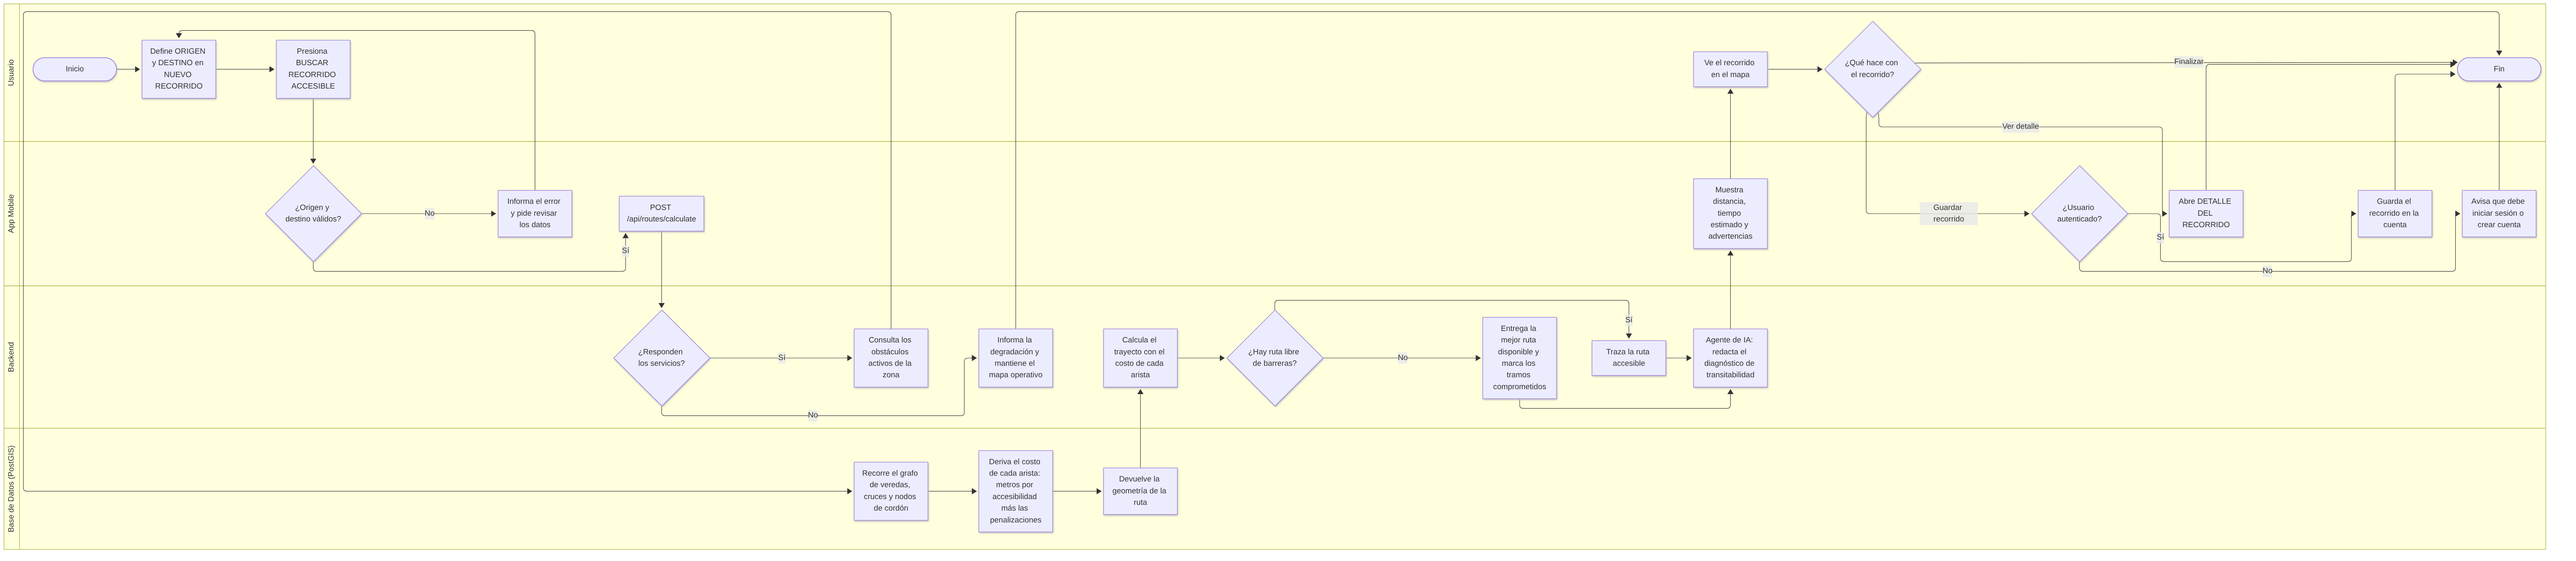
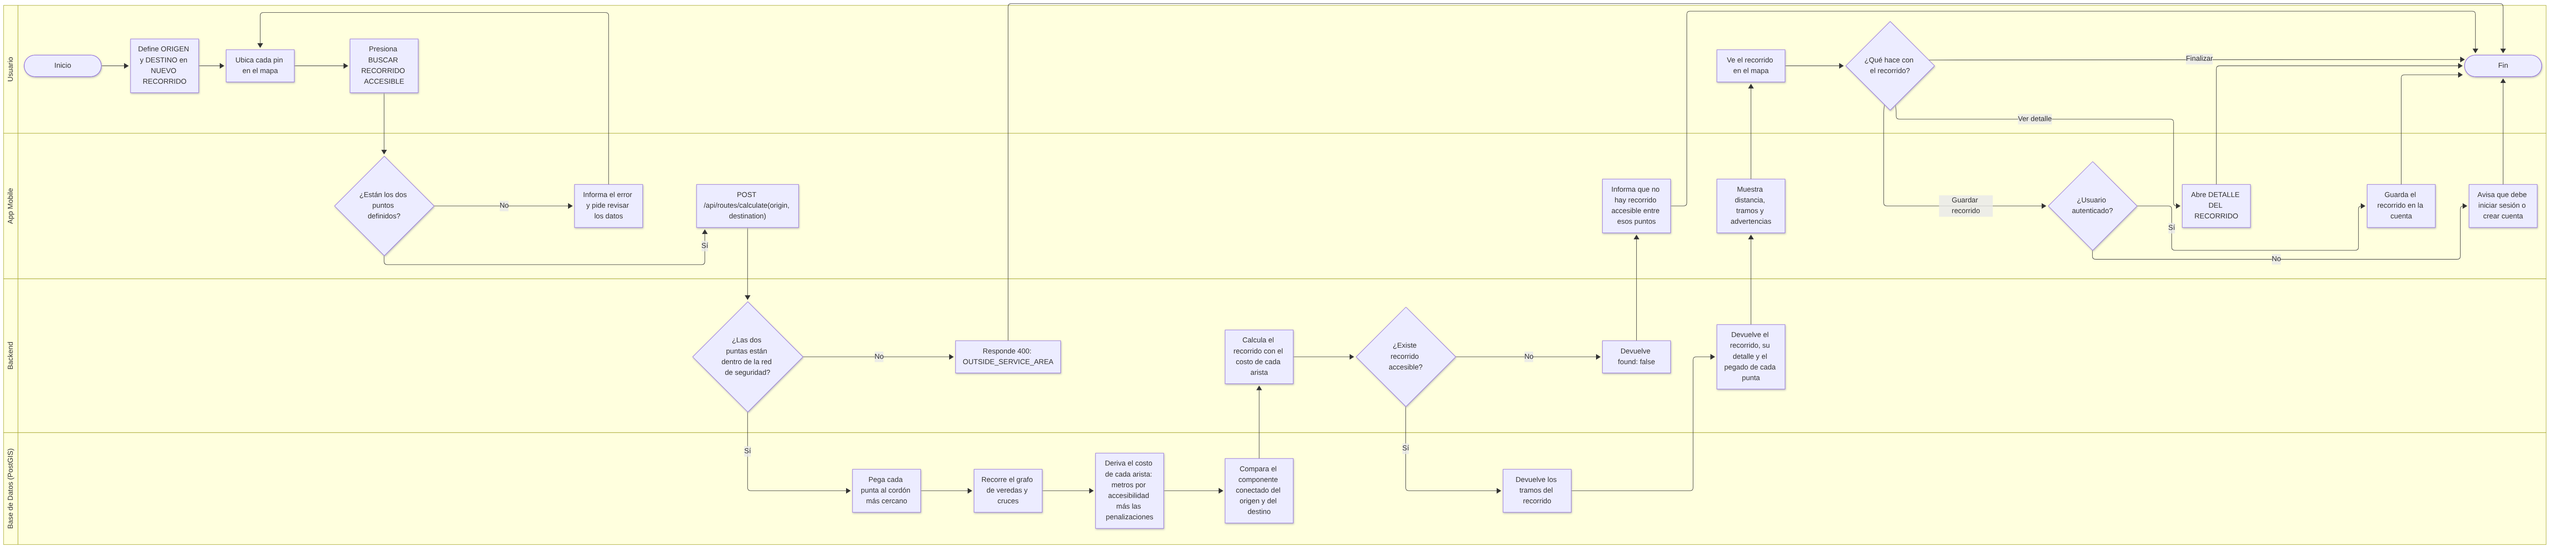
docs(ruteo): definir el contrato de C003 y C004
La API de ruteo no tenía contrato, y el diagrama de actividades todavía
prometía un agente de IA, una "mejor ruta disponible" que desvía por un
paso infranqueable y un tiempo estimado que ningún documento define.

- 13: entrada por coordenadas —no hay geocoder—, validación de las
  puntas contra service_areas, pegado sin extender la geometría,
  found: false cuando no hay camino y el detalle en la misma respuesta.
- 04: OUTSIDE_SERVICE_AREA es un motivo de VALIDATION_ERROR, definido
  por la funcionalidad que lo produce.
- 09 y 11: corregidos donde decían lo contrario y enlazados al 13.

diff --git a/docs/13-api-de-ruteo.md b/docs/13-api-de-ruteo.md
@@ -1,0 +1,268 @@
+# La API de ruteo
+
+> Documento temático. Define el contrato de C003 —planificar un recorrido accesible—
+> y de C004 —ver su detalle—: qué recibe, qué valida, qué devuelve y qué no hace. Es
+> el estado vivo de esas decisiones: se edita en su lugar cuando cambian. Se
+> complementa con [09-modelo-de-datos.md](09-modelo-de-datos.md), que define el costo
+> de las aristas, con [11-grafo-peatonal.md](11-grafo-peatonal.md), que define la
+> vista `walkable_edges` y las consultas de ruteo, y con
+> [10-datos-y-zona-piloto.md](10-datos-y-zona-piloto.md), que define el perímetro de
+> búsqueda.
+
+## 1. Alcance
+
+Este documento responde:
+
+- **Con qué entrada** se pide un recorrido, y por qué son coordenadas (§3).
+- **Cómo se validan y a qué se pegan** las dos puntas (§4).
+- **Cómo se calcula** el recorrido (§5).
+- **Qué pasa cuando no hay** recorrido accesible (§6).
+- **Qué devuelve**, campo por campo (§7).
+- **Cómo se rechaza** un pedido (§8).
+- **Por qué el detalle es la misma respuesta** y no un recurso (§9).
+
+No decide el costo de las aristas —vive en [09 §4.7](09-modelo-de-datos.md), y acá sólo
+se consume—, ni cómo se deriva el grafo ([11](11-grafo-peatonal.md)), ni el catálogo de
+errores, que es de [04](04-errores-y-mensajes.md).
+
+**El endpoint no escribe nada.** Ni una fila, ni un contador, ni un caché: es una
+consulta. Todo su estado es el grafo y los obstáculos del momento ([09 §4.7](09-modelo-de-datos.md)),
+y por eso dos pedidos iguales devuelven lo mismo mientras el dato no cambie.
+
+## 2. Los tres límites que ordenan el diseño
+
+Antes del contrato, tres límites que explican casi todas las decisiones de abajo:
+
+1. **La accesibilidad es binaria donde importa.** Un elemento relevado como `NONE` es
+   intransitable y el recorrido **no pasa por ahí**, punto. No se encarece, no se
+   penaliza, no se ofrece como alternativa: `walkable_edges` la cobra `-1` y pgRouting
+   la saca del grafo ([09 §4.7](09-modelo-de-datos.md)). Una ruta que atraviesa un paso
+   infranqueable es peor que la ausencia de ruta, porque manda a la persona hasta el
+   obstáculo.
+2. **No hay geocoder.** Nadie traduce "Necochea 120" a una coordenada: no hay servicio
+   de direcciones y Google está descartado por licencia ([12 §7](12-relevamiento-de-accesibilidad.md)).
+   Los puntos los produce el cliente con un pin sobre el mapa o con el GPS, y la API
+   recibe coordenadas.
+3. **El recorrido empieza y termina en un cordón.** La geometría que se devuelve es la
+   de las aristas, no una prolongación hasta el punto pedido: extenderla afirmaría que
+   ese tramo inventado también es accesible, y nadie lo relevó (§4.2).
+
+## 3. El pedido
+
+`POST /api/routes/calculate`
+
+```json
+{
+  "origin": { "lat": -32.889727, "lon": -68.844499 },
+  "destination": { "lat": -32.892960, "lon": -68.842028 }
+}
+```
+
+- **Coordenadas sueltas, en WGS 84 (SRID 4326), `lat` y `lon` por nombre.** El orden se
+  nombra justamente porque el par anónimo se confunde: en la geometría GeoJSON de la
+  respuesta el orden es el inverso —`[lon, lat]`—, y la asimetría se documenta en los dos
+  lados.
+- **Sin texto, sin ids de nodo, sin "mi ubicación".** Buscar por nombre de calle es otra
+  funcionalidad, no está en ninguna fase y no la necesita C003 (§10). Y aceptar el `id` de
+  un cordón ataría al cliente a la numeración interna, que es un artefacto del import
+  ([11 §4](11-grafo-peatonal.md)): el `id` se devuelve como referencia, no se pide.
+- **`POST` y no `GET`** porque el pedido lleva dos puntos en el cuerpo; el endpoint no
+  escribe nada igual (§1).
+- **Se validan las dos presencias y los rangos** (`lat` en −90…90, `lon` en −180…180) con
+  un esquema Zod, que es también la fuente del OpenAPI ([02 §6](02-stack-y-estructura.md)).
+  Lo que no cumple eso es `VALIDATION_ERROR` con el `field` que falló.
+
+## 4. Las puntas
+
+### 4.1 La red de seguridad
+
+Cada punta se valida **tal como se pidió**, no el nodo al que después se pega, contra el
+perímetro activo de `service_areas` ([09 §4.8](09-modelo-de-datos.md),
+[10 §2.1](10-datos-y-zona-piloto.md)). Es lo que evita el peor defecto de un ruteo: que
+una coordenada de otra provincia se pegue al borde del grafo y devuelva un camino con
+toda la apariencia de ser válido.
+
+Un punto afuera se rechaza con `VALIDATION_ERROR` y el detalle
+`{ "field": "origin", "code": "OUTSIDE_SERVICE_AREA" }` —o `destination`—: es un
+problema de la entrada, no un recurso que no existe, y el catálogo de
+[04 §4](04-errores-y-mensajes.md) no necesita un código nuevo para eso. Los `details`
+no traen la distancia al perímetro: el dato útil para el cliente es que la punta está
+fuera, y el texto que explica qué hacer lo arma él ([04 §6](04-errores-y-mensajes.md)).
+
+**El borde de la zona no es el borde del grafo.** El extracto trae un búfer de 130 m y la
+red de seguridad 50 m: un pedido hecho cerca del borde puede pegarse a un cordón que está
+fuera del perímetro, y eso es correcto, porque lo que se valida es el pedido
+([10 §2.1](10-datos-y-zona-piloto.md)).
+
+### 4.2 El pegado, y por qué no se extiende la geometría
+
+A cada punta se le busca el cordón más cercano por índice GiST (`ORDER BY geom <-> punto
+LIMIT 1`, [11 §5.2](11-grafo-peatonal.md)). Ese nodo es el extremo real del recorrido.
+
+**No se agrega un tramo desde el punto pedido hasta el nodo.** Ese tramo no existe en el
+grafo, nadie lo relevó, y dibujarlo afirmaría que se puede caminar: es el mismo argumento
+por el que el importador no inventa un nivel ([11 §2](11-grafo-peatonal.md)). Lo que se
+hace es **decir cuánto se movió la punta**: la respuesta trae, por cada extremo, el nodo
+en el que empezó el recorrido y la distancia a la que quedó del punto pedido (§7). El
+cliente es quien muestra esa diferencia, y sin ese dato no puede mostrarla.
+
+## 5. El cálculo
+
+La consulta es la de [11 §5.2](11-grafo-peatonal.md), sin agregados: `pgr_dijkstra` sobre
+`walkable_edges` con `directed := false` —para el peatón toda calle se camina en los dos
+sentidos— y la unión de vuelta a la vista para recuperar el detalle de cada arista.
+
+Tres detalles que el código tiene que respetar y que la documentación ya fija:
+
+- **`LEFT JOIN` y no `JOIN`** al unir el resultado con `walkable_edges`: la última fila de
+  `pgr_dijkstra` es el nodo de llegada, trae `edge = -1` y con un `JOIN` común se cae.
+- **El costo es el de la vista**, no una copia: `metros × factor_nivel + penalizaciones`,
+  con el nivel del cruce derivado del peor de sus dos esquinas ([09 §4.7](09-modelo-de-datos.md)).
+- **El nivel que se devuelve por tramo es el que se cobró** (`walkable_edges.level`), no el
+  de la tabla del elemento: en un cruce puede venir de las esquinas, y mostrar el de
+  `crossings.accessibility_level` —casi siempre `NULL`— sería mostrar otro dato.
+
+## 6. Cuando no hay recorrido
+
+**No es un error: es una respuesta.** El pedido está bien formado, las dos puntas están
+en zona, y simplemente no hay camino: responde **200** con `found: false`.
+
+Y hay casos reales, no teóricos: el grafo del extracto tiene diez componentes conectados y
+nueve son retazos del búfer ([11 §5.1](11-grafo-peatonal.md)), así que un destino ahí
+puede quedar inalcanzable sin que haya nada raro en el pedido. Con el relevamiento cargado
+se suma el caso legítimo: dos puntos que sólo se conectan cruzando una esquina `NONE`
+(§2).
+
+**Cómo se detecta, sin adivinar.** Se corre `pgr_connectedComponents` sobre
+`walkable_edges` con `cost <> -1` y se compara el componente del origen con el del
+destino. Es una clasificación exacta y barata: si no comparten componente, no hay
+recorrido, y no hay que distinguir "no hay camino" de "el algoritmo falló".
+
+**Lo que no se hace:** volver a rutear las aristas `NONE` con un costo alto para "dar la
+mejor ruta disponible", y decir cuál obstáculo corta el paso. Lo primero se descartó por
+principio: puede devolver un paso infranqueable. Lo segundo es un diagnóstico que hoy no
+tiene dato —una arista `NONE` no dice por qué— y que se puede agregar cuando el portal
+pueda vincular obstáculos a tramos.
+
+## 7. La respuesta
+
+`200` con un recorrido:
+
+```json
+{
+  "found": true,
+  "origin": {
+    "node": { "id": 12, "lat": -32.88969, "lon": -68.84445 },
+    "distance_m": 8.4
+  },
+  "destination": {
+    "node": { "id": 87, "lat": -32.89296, "lon": -68.84203 },
+    "distance_m": 2.1
+  },
+  "summary": { "meters": 1570.2, "cost": 3140.4, "crossings": 10 },
+  "legs": [
+    {
+      "element_kind": "sidewalk",
+      "element_id": 42,
+      "level": "PARTIAL",
+      "meters": 121.3,
+      "geometry": {
+        "type": "LineString",
+        "coordinates": [[-68.84441, -32.88971], [-68.84439, -32.88980]]
+      }
+    }
+  ]
+}
+```
+
+`200` sin recorrido, que es la mitad alternativa de la unión discriminada por `found`:
+
+```json
+{
+  "found": false,
+  "origin": { "node": { "id": 12, "lat": -32.88969, "lon": -68.84445 }, "distance_m": 8.4 },
+  "destination": { "node": { "id": 150, "lat": -32.88470, "lon": -68.84719 }, "distance_m": 31.7 }
+}
+```
+
+| Campo | Para qué |
+| --- | --- |
+| `found` | Discrimina las dos respuestas. `false` no trae `summary` ni `legs` |
+| `origin`, `destination` | Dónde empezó y terminó el recorrido de verdad: el nodo y a cuántos metros quedó del punto pedido (§4.2) |
+| `summary.meters` | La suma de los metros de los tramos: lo que la persona camina |
+| `summary.cost` | La suma de los costos, en **metros equivalentes**: el número con el que el motor eligió este camino ([09 §4.7](09-modelo-de-datos.md)) |
+| `summary.crossings` | Cuántos cruces tiene el recorrido |
+| `legs[].element_kind`, `element_id` | De qué elemento del grafo es cada tramo, para poder volver a la ficha. El `id` es el único identificador que tiene un elemento derivado ([11 §4](11-grafo-peatonal.md)), así que es lo que se expone |
+| `legs[].level` | El nivel que se cobró: `FULL`, `PARTIAL` o `NULL` (sin dato, cobrado como `PARTIAL`). Un tramo `NONE` no puede aparecer |
+| `legs[].meters` | El largo de ese tramo |
+| `legs[].geometry` | La geometría del tramo, en GeoJSON, orden `[lon, lat]` |
+
+Cuatro decisiones detrás de esa forma:
+
+- **`legs` viene en orden de recorrido**, pero cada `LineString` conserva la dirección en
+  que está guardada en la base. Orientarlas es trabajo del cliente y no agrega
+  información: los tramos ya están en orden.
+- **No hay una geometría única fusionada.** La geometría es una sola cosa —los tramos— y
+  duplicarla en un `LineString` armado en el servidor da dos fuentes para el mismo dato,
+  que es lo que [09 §4.3](09-modelo-de-datos.md) corrigió para el lado de la vereda.
+- **`cost` se expone junto a `meters`.** Un recorrido que no se puede descomponer no se
+  puede explicar ni revisar: "este camino de 1.570 m costó 3.140 metros equivalentes" es
+  la frase que hace visible que todo el grafo está sin relevar ([09 §4.7](09-modelo-de-datos.md)).
+- **No hay un campo `warnings` ni un tiempo estimado.** El aviso que la app necesita sale
+  de los tramos: un `PARTIAL` o un `NULL` es un tramo con el que hay que tener cuidado. El
+  tiempo se calcula en el cliente con una velocidad peatonal, si alguna vez hace falta.
+
+**Dos puntas que se pegan al mismo cordón** devuelven `found: true` con `legs` vacío y
+`summary` en cero. No es un error: el pedido es válido y el recorrido es de cero metros.
+
+## 8. Cómo se rechaza
+
+| Situación | Status | Respuesta |
+| --- | --- | --- |
+| Falta una punta, coordenada mal formada o fuera de rango | 400 | `VALIDATION_ERROR` con `details: [{ field, code }]` |
+| Una punta está fuera de la red de seguridad | 400 | `VALIDATION_ERROR` con `details: [{ field, code: "OUTSIDE_SERVICE_AREA" }]` |
+| No hay perímetro activo en `service_areas` | 500 | `INTERNAL_ERROR`: es una base mal inicializada, no un pedido inválido |
+| Cualquier fallo del ruteo | 500 | `INTERNAL_ERROR`, sin detalles ([04 §5](04-errores-y-mensajes.md)) |
+
+Todo eso sigue [04](04-errores-y-mensajes.md): el backend no manda texto, manda códigos.
+
+## 9. C004 es la misma respuesta
+
+**Ver el detalle del recorrido no es un recurso.** No hay tabla de rutas: `saved_routes`
+guarda sólo los extremos, a propósito, para que una ruta guardada no mande a nadie por un
+camino que dejó de ser transitable ([09 §4.6](09-modelo-de-datos.md)). Sin fila, no hay
+`GET /api/routes/:id` que consultar.
+
+Así que el detalle viaja en la respuesta de C003 (§7) y C004 es, del lado de la API, **el
+mismo contrato**: la app abre la ficha del recorrido con lo que ya recibió. Si alguna vez
+una ruta guardada tiene que reabrirse con su detalle, se recalcula con los mismos dos
+puntos, que es exactamente lo que el modelo quiere que pase.
+
+## 10. Lo que este documento no decide
+
+- **La calibración del costo.** Los factores y las penalizaciones viven en
+  [09 §4.7](09-modelo-de-datos.md); acá sólo se consumen.
+- **La distancia máxima de pegado.** Hoy la acota la red de seguridad indirectamente. Si
+  aparece un caso de una punta aceptada que se pega lejísimos, se acota acá.
+- **Los obstáculos por tramo.** El detalle no los enumera: hoy no hay obstáculos cargados,
+  y su efecto ya está en el costo. Se agrega cuando el portal pueda vincularlos.
+- **Buscar por dirección o por nombre de calle.** Es una funcionalidad propia, no está en
+  ninguna fase y no la necesita C003 (§2).
+- **La degradación cuando la base no responde.** El diagrama de actividades la muestra;
+  se resuelve con el `INTERNAL_ERROR` de §8 y la política de operación
+  ([03](03-despliegue-y-operacion.md)), no con un contrato propio.
+- **El texto que ve la persona.** Lo escribe cada cliente a partir de los códigos y de los
+  tramos ([04 §6](04-errores-y-mensajes.md)).
+
+## 11. Documentos relacionados
+
+- [09-modelo-de-datos.md](09-modelo-de-datos.md): el costo de las aristas y las áreas de
+  servicio.
+- [11-grafo-peatonal.md](11-grafo-peatonal.md): la vista `walkable_edges` y las consultas
+  de ruteo y de validación.
+- [10-datos-y-zona-piloto.md](10-datos-y-zona-piloto.md): el recorte y el perímetro de
+  búsqueda.
+- [04-errores-y-mensajes.md](04-errores-y-mensajes.md): la forma de la respuesta de error.
+- [12-relevamiento-de-accesibilidad.md](12-relevamiento-de-accesibilidad.md): de dónde sale
+  el nivel que el costo cobra.
+- [07-plan-de-trabajo.md](07-plan-de-trabajo.md): fases y casos de uso.

diff --git a/docs/09-modelo-de-datos.md b/docs/09-modelo-de-datos.md
@@ -366,8 +366,9 @@ de vereda `PARTIAL` cuestan como 200 m, y así se comparan con 200 m de vereda `
 `NONE` no es un factor alto: **es `-1`, que es como pgRouting representa una arista que no
 se puede recorrer** ("a negative value on a cost column is interpreted as the edge does not
 exist"). Con eso la arista queda fuera del grafo sin un `WHERE` que la filtre, y cuando no
-hay camino el caso de uso ya tiene respuesta: C003 devuelve la mejor ruta disponible y marca
-los tramos comprometidos.
+hay camino el caso de uso ya tiene respuesta: C003 responde que no hay recorrido accesible,
+porque **no se desvía a la persona por un paso que no se puede franquear**
+([13 §6](13-api-de-ruteo.md#6-cuando-no-hay-recorrido)).
 
 **En un cruce, el nivel puede venir de la esquina.** `crossings.accessibility_level`
 sólo tiene valor si alguien miró ese cruce puntual; el importador no lo escribe, porque
@@ -542,7 +543,8 @@ reproducir.
 **No está en el camino del ruteo.** El área limita **las puntas** de una consulta, no el
 recorrido: el camino sigue siendo todo el grafo, y por eso no hay ninguna arista que se
 recorte por caer afuera (ver [11 §5](11-grafo-peatonal.md)). El endpoint que la usa y el
-código de error con el que rechaza no son parte de este esquema.
+código de error con el que rechaza son de
+[13](13-api-de-ruteo.md#8-cómo-se-rechaza), no de este esquema.
 
 **Alternativas descartadas.** Un enum no aplica: no es un vocabulario cerrado y tiene
 atributos propios (la geometría, el nombre, el estado). Un `CHECK` tampoco: el perímetro

diff --git a/docs/04-errores-y-mensajes.md b/docs/04-errores-y-mensajes.md
@@ -64,7 +64,9 @@ Códigos iniciales. Una funcionalidad agrega los suyos siguiendo §7.
 
 Los `details` de `VALIDATION_ERROR` tienen la forma
 `[{ "field": "<campo>", "code": "<MOTIVO>" }]` (p. ej. `INVALID_EMAIL`,
-`REQUIRED`).
+`REQUIRED`). Los motivos no se listan acá: los define la funcionalidad que los produce
+—el ruteo define `OUTSIDE_SERVICE_AREA` en [13](13-api-de-ruteo.md#8-cómo-se-rechaza)—
+porque son parte de la validación de ese caso de uso y no del catálogo general.
 
 ## 5. Errores esperables y no esperables
 
@@ -117,7 +119,9 @@ el monorepo (ver [02](02-stack-y-estructura.md) §3).
 
 ## 8. Documentos relacionados
 
-- [00-reglas-documentacion.md](00-reglas-documentacion.md): reglas de la
-documentación.
+- [00-reglas-documentacion.md](00-reglas-documentacion.md): las reglas de la
+  documentación.
 - [02-stack-y-estructura.md](02-stack-y-estructura.md): convenciones de idioma y
   estructura del proyecto.
+- [13-api-de-ruteo.md](13-api-de-ruteo.md): el caso de uso que usa
+  `OUTSIDE_SERVICE_AREA` como motivo de validación.

diff --git a/README.md b/README.md
@@ -26,3 +26,4 @@ Vive en [`docs/`](docs/):
 - [10 — Datos y zona piloto](docs/10-datos-y-zona-piloto.md)
 - [11 — El grafo peatonal](docs/11-grafo-peatonal.md)
 - [12 — El relevamiento de accesibilidad](docs/12-relevamiento-de-accesibilidad.md)
+- [13 — La API de ruteo](docs/13-api-de-ruteo.md)
